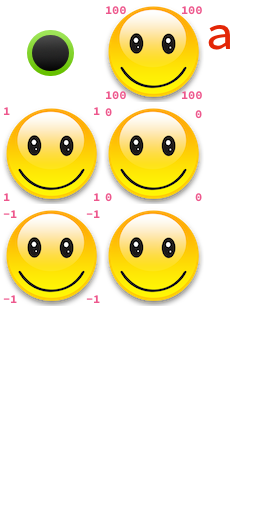
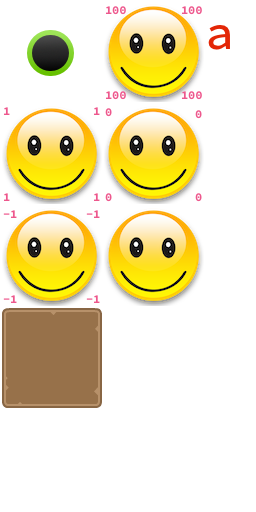
refactor scale9 API, add a test resource

Changed region(s): [[0.0, 0.5938, 0.4062, 0.8125]]

diff --git a/seal/binding/lsprite.c b/seal/binding/lsprite.c
@@ -99,6 +99,13 @@ int lsprite_set_texture_id(lua_State* L)
     return 0;
 }
 
+int lsprite_frame_size(lua_State* L)
+{
+    struct sprite_frame* self = lua_touserdata(L, 1);
+    lua_pushinteger(L, self->frame_rect.width);
+    lua_pushinteger(L, self->frame_rect.height);
+    return 2;
+}
 
 int lsprite_new(lua_State* L)
 {
@@ -469,6 +476,7 @@ int luaopen_seal_sprite(lua_State* L)
         { "load_sprite_frame", lsprite_load_spriteframe },
         { "unload_sprite_frame", lsprite_unload_spriteframe },
         { "set_frame_texture_id", lsprite_set_texture_id },
+        { "get_sprite_frame_size", lsprite_frame_size},
 
         { "new", lsprite_new },
         { "new_label", lsprite_new_label },
